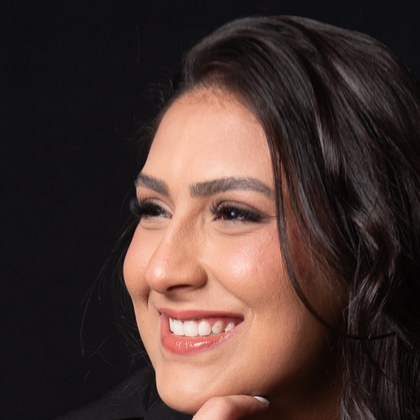
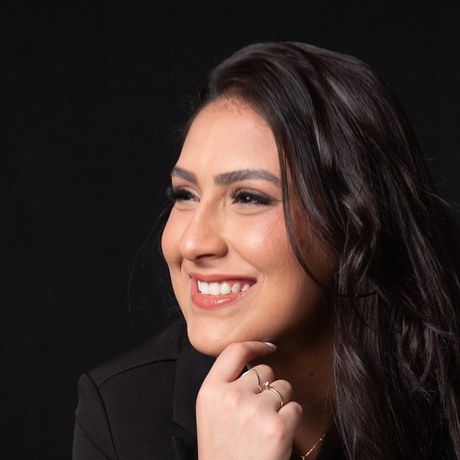
Vitoria Daniela: afasta o enquadramento da foto no lockup
O recorte anterior (lado 620) deixava o rosto colado nas bordas do circulo.
Abre pra lado 860 no original, o que traz cabelo e ombro pra dentro do
enquadramento e da respiro em volta do rosto.

Claude-Session: https://claude.ai/code/session_013Sa3HLQHYweprDFbfMtnWK

diff --git a/clientes/vitoria-daniela/copy/2026-08-06-carrossel-sessao-gratuita/copy.md b/clientes/vitoria-daniela/copy/2026-08-06-carrossel-sessao-gratuita/copy.md
@@ -103,7 +103,7 @@ a promessa numérica "seis dígitos por mês".
 ## A foto
 
 `foto-vitoria.jpg` é a **DSC_2820 (2)** do ensaio (pasta "Fotos" no Drive), recortada em
-quadrado no rosto e reduzida para 420px, 28KB. O fundo original é preto, então no card
+quadrado mais aberto (lado 860 do original, centrado em 545x610) e reduzida para 460px, 30KB. O fundo original é preto, então no card
 escuro ela se funde e sobra o rosto dentro do anel dourado.
 
 Para trocar a foto, basta substituir o arquivo mantendo o nome e reexportar. Se o arquivo
